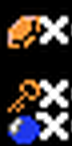
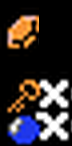
add rupee counting

Changed region(s): [[0.5278, 0.0822, 1.0, 0.3288]]

diff --git a/zelda/zelda.js b/zelda/zelda.js
@@ -28,11 +28,17 @@ $(document).ready(function(){
     var hasSword = false;
     var hasBoomerang = false;
 
+    var currentHearts = 3;
+    var maxHearts = 3;
+
+    var rupeesCount = 0;
+
 	var viewport = $("#viewport");
 	var link = $("#link");
     var boomerang = $("#boomerang");
 	var beacon = $("#beacon");
     var hearts = $("#hearts-bottom");
+    var rupees = $("#rupees");
 
 	link.addClass("up");
 
@@ -501,9 +507,6 @@ $(document).ready(function(){
 		updateBGYVal();
 	};
 
-    var currentHearts = 3;
-    var maxHearts = 3;
-
     var updateHealth = function(difference){
         difference = difference || 0;
         currentHearts += difference;
@@ -526,6 +529,24 @@ $(document).ready(function(){
     };
 
     updateHealth();
+
+    var updateRupees = function(difference){
+        difference = difference || 0;
+
+        if (rupeesCount < 0) {
+            return;
+        }
+
+        rupeesCount += difference;
+
+        if (rupeesCount < 100) {
+            rupees.text("X" + rupeesCount);
+        } else {
+            rupees.text(rupeesCount);
+        }
+    };
+
+    updateRupees(255);
 
     var rightInterval;
     var leftInterval;

diff --git a/zelda/styles/zelda.css b/zelda/styles/zelda.css
@@ -61,8 +61,9 @@ body {
 	font-size: 8px;
 	position: absolute;
 	top: 16px;
-	left: 104px;
+	left: 96px;
     font-family: 'Press Start 2P', cursive;
+    z-index: 101;
 }
 #keys {
 	color: white;
